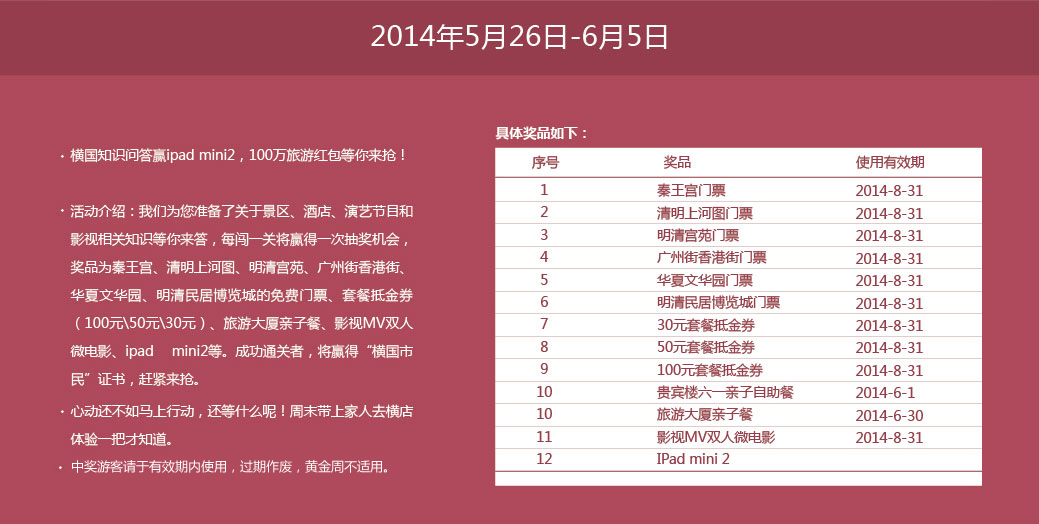
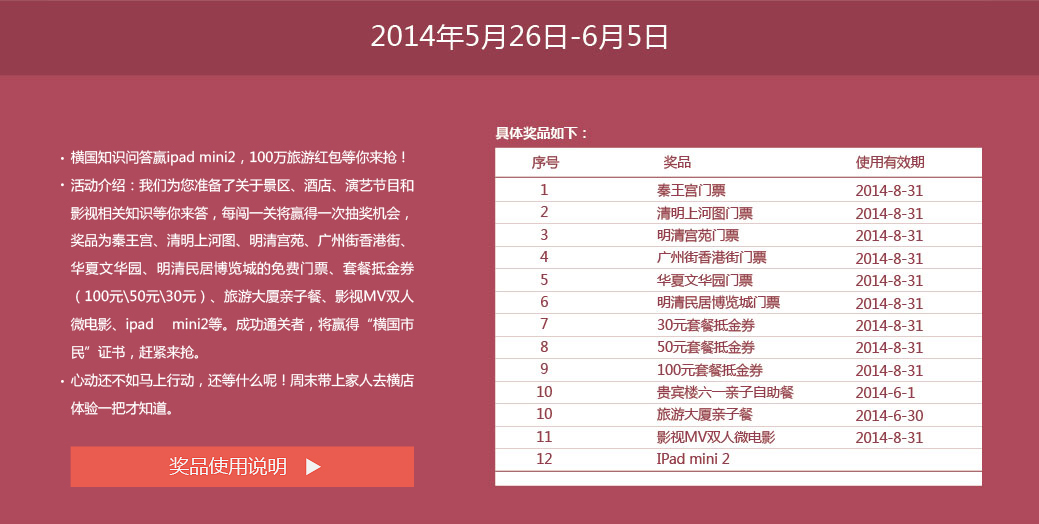
改进

Changed region(s): [[0.0616, 0.2748, 0.4004, 0.7939], [0.0616, 0.8244, 0.4004, 0.9466]]

diff --git a/lottery/templates/lottery/choujiang_result_no_wap.html b/lottery/templates/lottery/choujiang_result_no_wap.html
@@ -12,7 +12,7 @@
         <meta name="copyright" content="Copyright &copy; 2013 hengdianworld.com Inc. All Rights Reserved." />
         <meta name="description" content="掌上横店！掌上横店是国家5A级旅游景区横店影视城的移动门户- m.hengdianworld.com" />
         <meta name="keywords" content="掌上横店,掌上横店影视城,横店影视城手机版网站" />
-    <title>知识问答赢大奖 百万旅游红包大派送  横店影视城2014年5-6月特惠 通关横国证书</title>
+    <title>#横国知识问答# 答题闯关赢Ipadmini2，百万红包大派送！  横店影视城2014年5-6月特惠 通关横国证书</title>
     <link href="{% static "lottery/css/mb/mbcss.css" %}" rel="stylesheet" type="text/css" />
     <link href="{% static "lottery/css/mb/slide.css" %}" rel="stylesheet" type="text/css" />
      <style>
@@ -24,7 +24,7 @@ span{display:block; float:left;   }
 <div style="margin:0 auto; text-align:center;">  
 <div> <img src="{% static "lottery/images/w_top.jpg" %}" width="100%"    alt=""/></div>
 <div style="height:55px; background-color:#953d4d; color:#fff; font-size:16px; text-align:center; font-weight:bold; padding-top:24px;">
-姓名：{{name}}  手机号：{{mobile}}
+姓名：{{name}}  手机号：{{mobile_encode}}
 </div>
 <!---->
 <div id="tm1" style="height:auto; text-align:center;background-color:#ea5c50;" class="tm"  >

diff --git a/lottery/templates/lottery/choujiang_result_yes_wap.html b/lottery/templates/lottery/choujiang_result_yes_wap.html
@@ -12,7 +12,7 @@
         <meta name="copyright" content="Copyright &copy; 2013 hengdianworld.com Inc. All Rights Reserved." />
         <meta name="description" content="掌上横店！掌上横店是国家5A级旅游景区横店影视城的移动门户- m.hengdianworld.com" />
         <meta name="keywords" content="掌上横店,掌上横店影视城,横店影视城手机版网站" />
-    <title>{{name}}, {{msg|safe}}</title>
+    <title>#横国知识问答# 答题闯关赢Ipadmini2，百万红包大派送！</title>
     <link href="{% static "lottery/css/mb/mbcss.css" %}" rel="stylesheet" type="text/css" />
     <link href="{% static "lottery/css/mb/slide.css" %}" rel="stylesheet" type="text/css" />
      <style>
@@ -24,7 +24,7 @@ span{display:block; float:left;   }
 <div style="margin:0 auto; text-align:center;">  
 <div> <img src="{% static "lottery/images/w_top.jpg" %}" width="100%"    alt=""/></div>
 <div style="height:55px; background-color:#953d4d; color:#fff; font-size:16px; text-align:center; font-weight:bold; padding-top:24px;">
-姓名：{{name}}  手机号：{{mobile}}
+姓名：{{name}}  手机号：{{mobile_encode}}
 </div>
 <!---->
 <div id="tm1" style="height:auto; text-align:center;background-color:#ea5c50;" class="tm"  >

diff --git a/lottery/templates/lottery/choujiang_result_no.html b/lottery/templates/lottery/choujiang_result_no.html
@@ -4,7 +4,7 @@
 <html>
 <head>
 <meta charset="utf-8">
-<title>知识问答赢大奖 百万旅游红包大派送  横店影视城2014年5-6月特惠 通关横国证书</title>
+<title>#横国知识问答# 答题闯关赢Ipadmini2，百万红包大派送！  横店影视城2014年5-6月特惠 通关横国证书</title>
 <link rel="stylesheet" type="text/css" href="css/global.css">
  <style>
 body{
@@ -25,7 +25,7 @@ span{display:block; float:left; margin-left:10px;  }
 <div style="padding-top:606px; width:1039px;margin:0 auto;">
 <!---->
 <div style="height:55px; background-color:#953d4d; color:#fff; font-size:16px; text-align:center; font-weight:bold; padding-top:24px;">
-姓名：{{name}}  手机号：{{mobile}}
+姓名：{{name}}  手机号：{{mobile_encode}}
 </div>
 <!---->
 <div style=" background-color:#ea5c50; height:auto; padding-top:50px; padding-left:80px; padding-right:80px;" >

diff --git a/lottery/templates/lottery/choujiang_result_yes.html b/lottery/templates/lottery/choujiang_result_yes.html
@@ -4,7 +4,7 @@
 <html>
 <head>
 <meta charset="utf-8">
-<title>{{name}}, {{msg|safe}} </title>
+<title>#横国知识问答# 答题闯关赢Ipadmini2，百万红包大派送！ </title>
 <link rel="stylesheet" type="text/css" href="{% static "lottery/css/global.css" %} ">
  <style>
 body{
@@ -25,7 +25,7 @@ span{display:block; float:left; margin-left:10px;  }
 <div style="padding-top:606px; width:1039px;margin:0 auto;">
 <!---->
 <div style="height:55px; background-color:#953d4d; color:#fff; font-size:16px; text-align:center; font-weight:bold; padding-top:24px;">
-姓名：{{name}}  手机号：{{mobile}}
+姓名：{{name}}  手机号：{{mobile_encode}}
 </div>
 <!---->
 <div style=" background-color:#ea5c50; height:auto; padding-top:50px; padding-left:80px; padding-right:80px;" >

diff --git a/lottery/templates/lottery/choujiang.html b/lottery/templates/lottery/choujiang.html
@@ -24,7 +24,14 @@ input{height:43px; background-color:transparent; font-family:Verdana,Geneva, san
 
 <div style="padding-top:606px; width:1039px;margin:0 auto;">
 <!---->
-<div><img src="{% static "lottery/images/cj_03.jpg" %}"  alt="" width="1039"   /></div>
+<div>
+
+<img src="{% static "lottery/images/cj_03.jpg" %}"  alt="" width="1039"  usemap="#prizemap"   />
+ <map name="prizemap">
+	<area shape="rect" coords="71,446,413,489" href="http://bbs.hengdianworld.com/forum.php?mod=viewthread&tid=287604&extra=" alt="奖品使用说明">	
+</map>
+
+</div>
 <!---->
 
 <div style="width:1039px; height:60px;   text-align:center;padding-top:14px; background-image:url({% static "lottery/images/cj_sj.jpg" %});">

diff --git a/lottery/views.py b/lottery/views.py
@@ -92,23 +92,19 @@ def choujiang_handle(request):
 	qc.status = False
 	qc.save()
 	record = handle_lottery_request(request)
-	return HttpResponseRedirect("/lottery/choujiang_result/?id="+str(record.id)+'&name='+qs['name'][0]+'&mobile='+qs['mobile'][0])
+	return HttpResponseRedirect("/lottery/choujiang_result/?id="+str(record.id)+'&name='+qs['name'][0])
 
 
 def choujiang_result(request):
 	qs = parse_qs(request.META['QUERY_STRING']) 
-	if qs.get('id') is None or qs.get('name') is None or qs.get('mobile') is None:
+	if qs.get('id') is None or qs.get('name') is None:
 		return HttpResponseRedirect('/lottery/')
 	lottery_record = (LotteryRecord.objects.filter(id=qs['id'][0],
-												   username=qs['name'][0],
-												   mobile=qs['mobile'][0])
+												   username=qs['name'][0])
 												   [:1] or [None])[0]
 	if lottery_record == None: #no lottery record
 		return HttpResponseRedirect('/lottery/')
 	else:
-		
-				   
-	   
 		if lottery_record.has_prize():  
 			display_attr = 'show'
 			msg = unicode("恭喜第",'UTF-8')+str(lottery_record.level)+unicode("关闯关成功！<br/> 恭喜你！抽中了一张【",'UTF-8')+lottery_record.prize_name+unicode("】，请在有效期内使用！赶快分享给你们的小伙伴吧！",'UTF-8')
@@ -116,7 +112,8 @@ def choujiang_result(request):
 			msg = unicode("恭喜第",'UTF-8')+str(lottery_record.level)+unicode("关闯关成功！<br/>本轮抽奖结果：奖品差一点就到手了，再接再励！",'UTF-8')
 			display_attr = 'none'
 		context = {'name': qs['name'][0],
-				   'mobile': qs['mobile'][0],
+				   'mobile': lottery_record.mobile,
+				   'mobile_encode':  lottery_record.mobile[:3]+'****'+lottery_record.mobile[7:],
 				   'prize_name': lottery_record.prize_name,
 				   'msg': msg,
 				   'id_nr': id_generator(9, string.digits),

diff --git a/lottery/admin.py b/lottery/admin.py
@@ -15,13 +15,23 @@ class CouponAdmin(admin.ModelAdmin):
 	search_fields = ('name','code', 'status')
 
 class LotteryRecordAdmin(admin.ModelAdmin):
-	list_display = ('username','mobile','level','ip','format_lottery_time','prize_name')
+	list_display = ('username','mobile','level','ip','format_lottery_time','prize_name','format_comedate','format_identity')
 	search_fields = ('username','mobile', 'prize_name')
 	list_filter = (
         ('lottery_time', DateFieldListFilter),
     )
 	def format_lottery_time(self,obj):
 		return obj.lottery_time.strftime('%Y-%m-%d, %H:%M:%S')
+	def format_comedate(self,obj):
+		if obj.comedate is None:
+			return ''
+		else:
+			return obj.comedate.strftime('%Y-%m-%d')
+	def format_identity(self,obj):
+		if obj.identity is None:
+			return ''
+		else:
+			return obj.identity
 		
 
 class PrizeConfigurationAdmin(admin.ModelAdmin):

diff --git a/lottery/models.py b/lottery/models.py
@@ -36,7 +36,9 @@ class LotteryRecord(models.Model):
 	mobile = models.CharField(max_length=100)
 	level = models.IntegerField(default=1)
 	lottery_time = models.DateTimeField()
-	prize_name =  models.CharField(max_length=500,default='')
+	prize_name =  models.CharField(max_length=500,default='',blank=True)
+	comedate = models.DateField(null=True,blank=True)
+	identity = models.CharField(max_length=100,null=True,blank=True)
 	def has_prize(self):
 		return self.prize_name != ''
 	def __unicode__(self):
